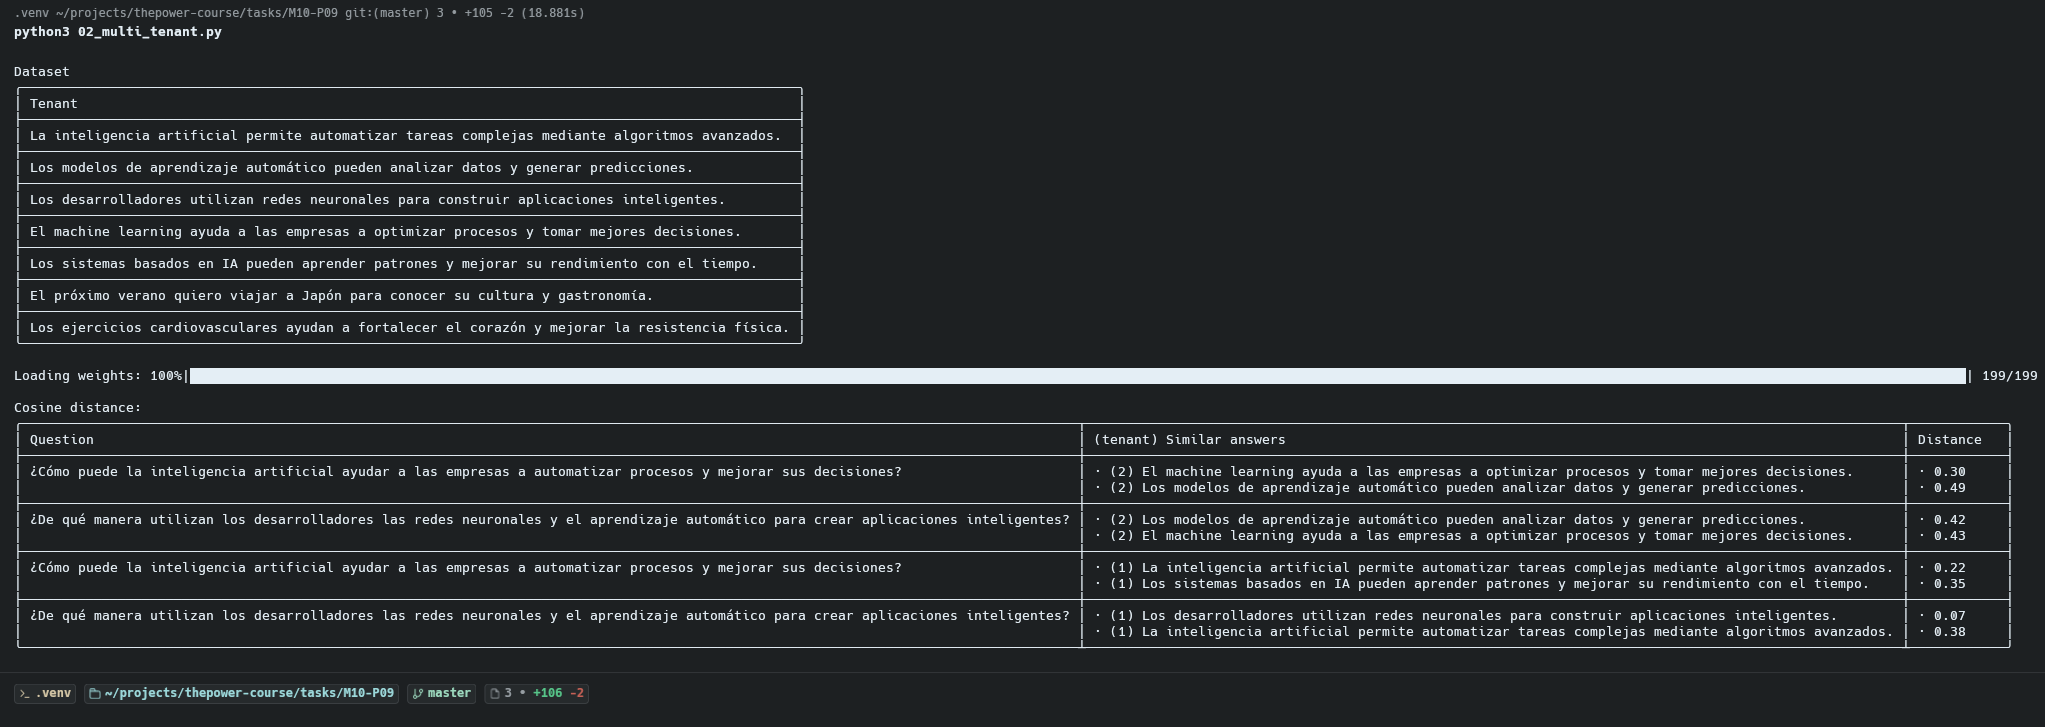
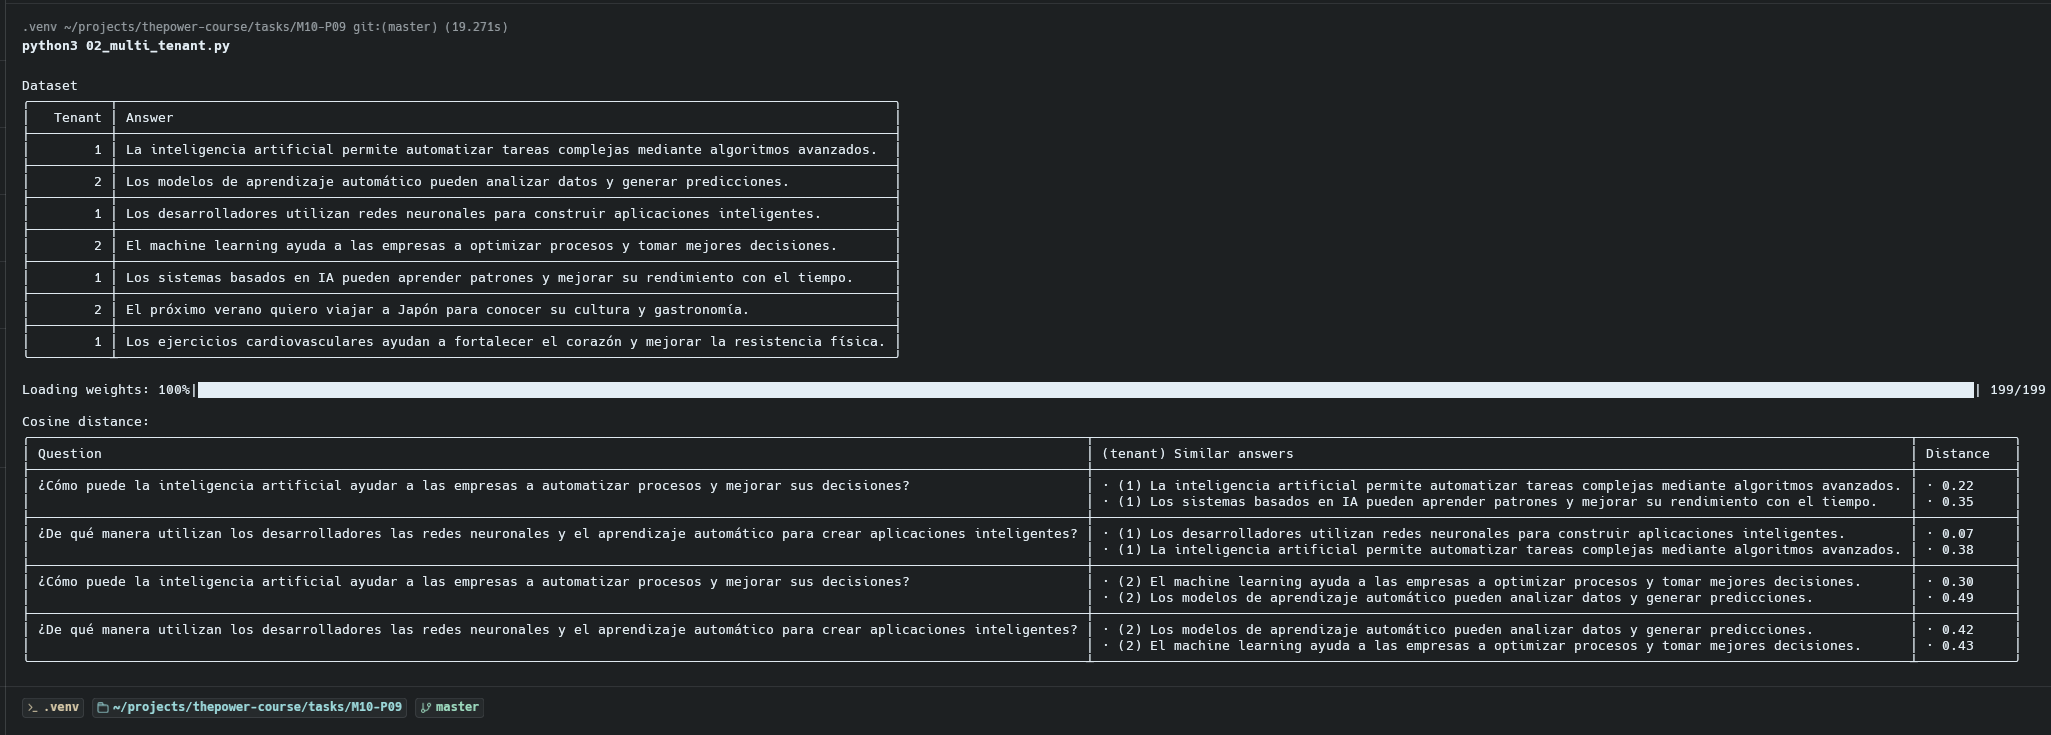
fix(P09): Challenge multitenant

Changed region(s): [[0.0, 0.0, 1.0, 0.9078], [0.0, 0.9381, 0.2773, 0.9684]]

diff --git a/tasks/M10-P09/02_multi_tenant.py b/tasks/M10-P09/02_multi_tenant.py
@@ -31,7 +31,7 @@ contents = [tuple_phrase[1] for tuple_phrase in PHRASES]
 
 print()
 print('Dataset')
-print(tabulate([[phrase] for phrase in contents], headers=['Tenant', 'Answer'], tablefmt='rounded_grid'))
+print(tabulate(PHRASES, headers=['Tenant', 'Answer'], tablefmt='rounded_grid'))
 print()
 
 # save in pg
